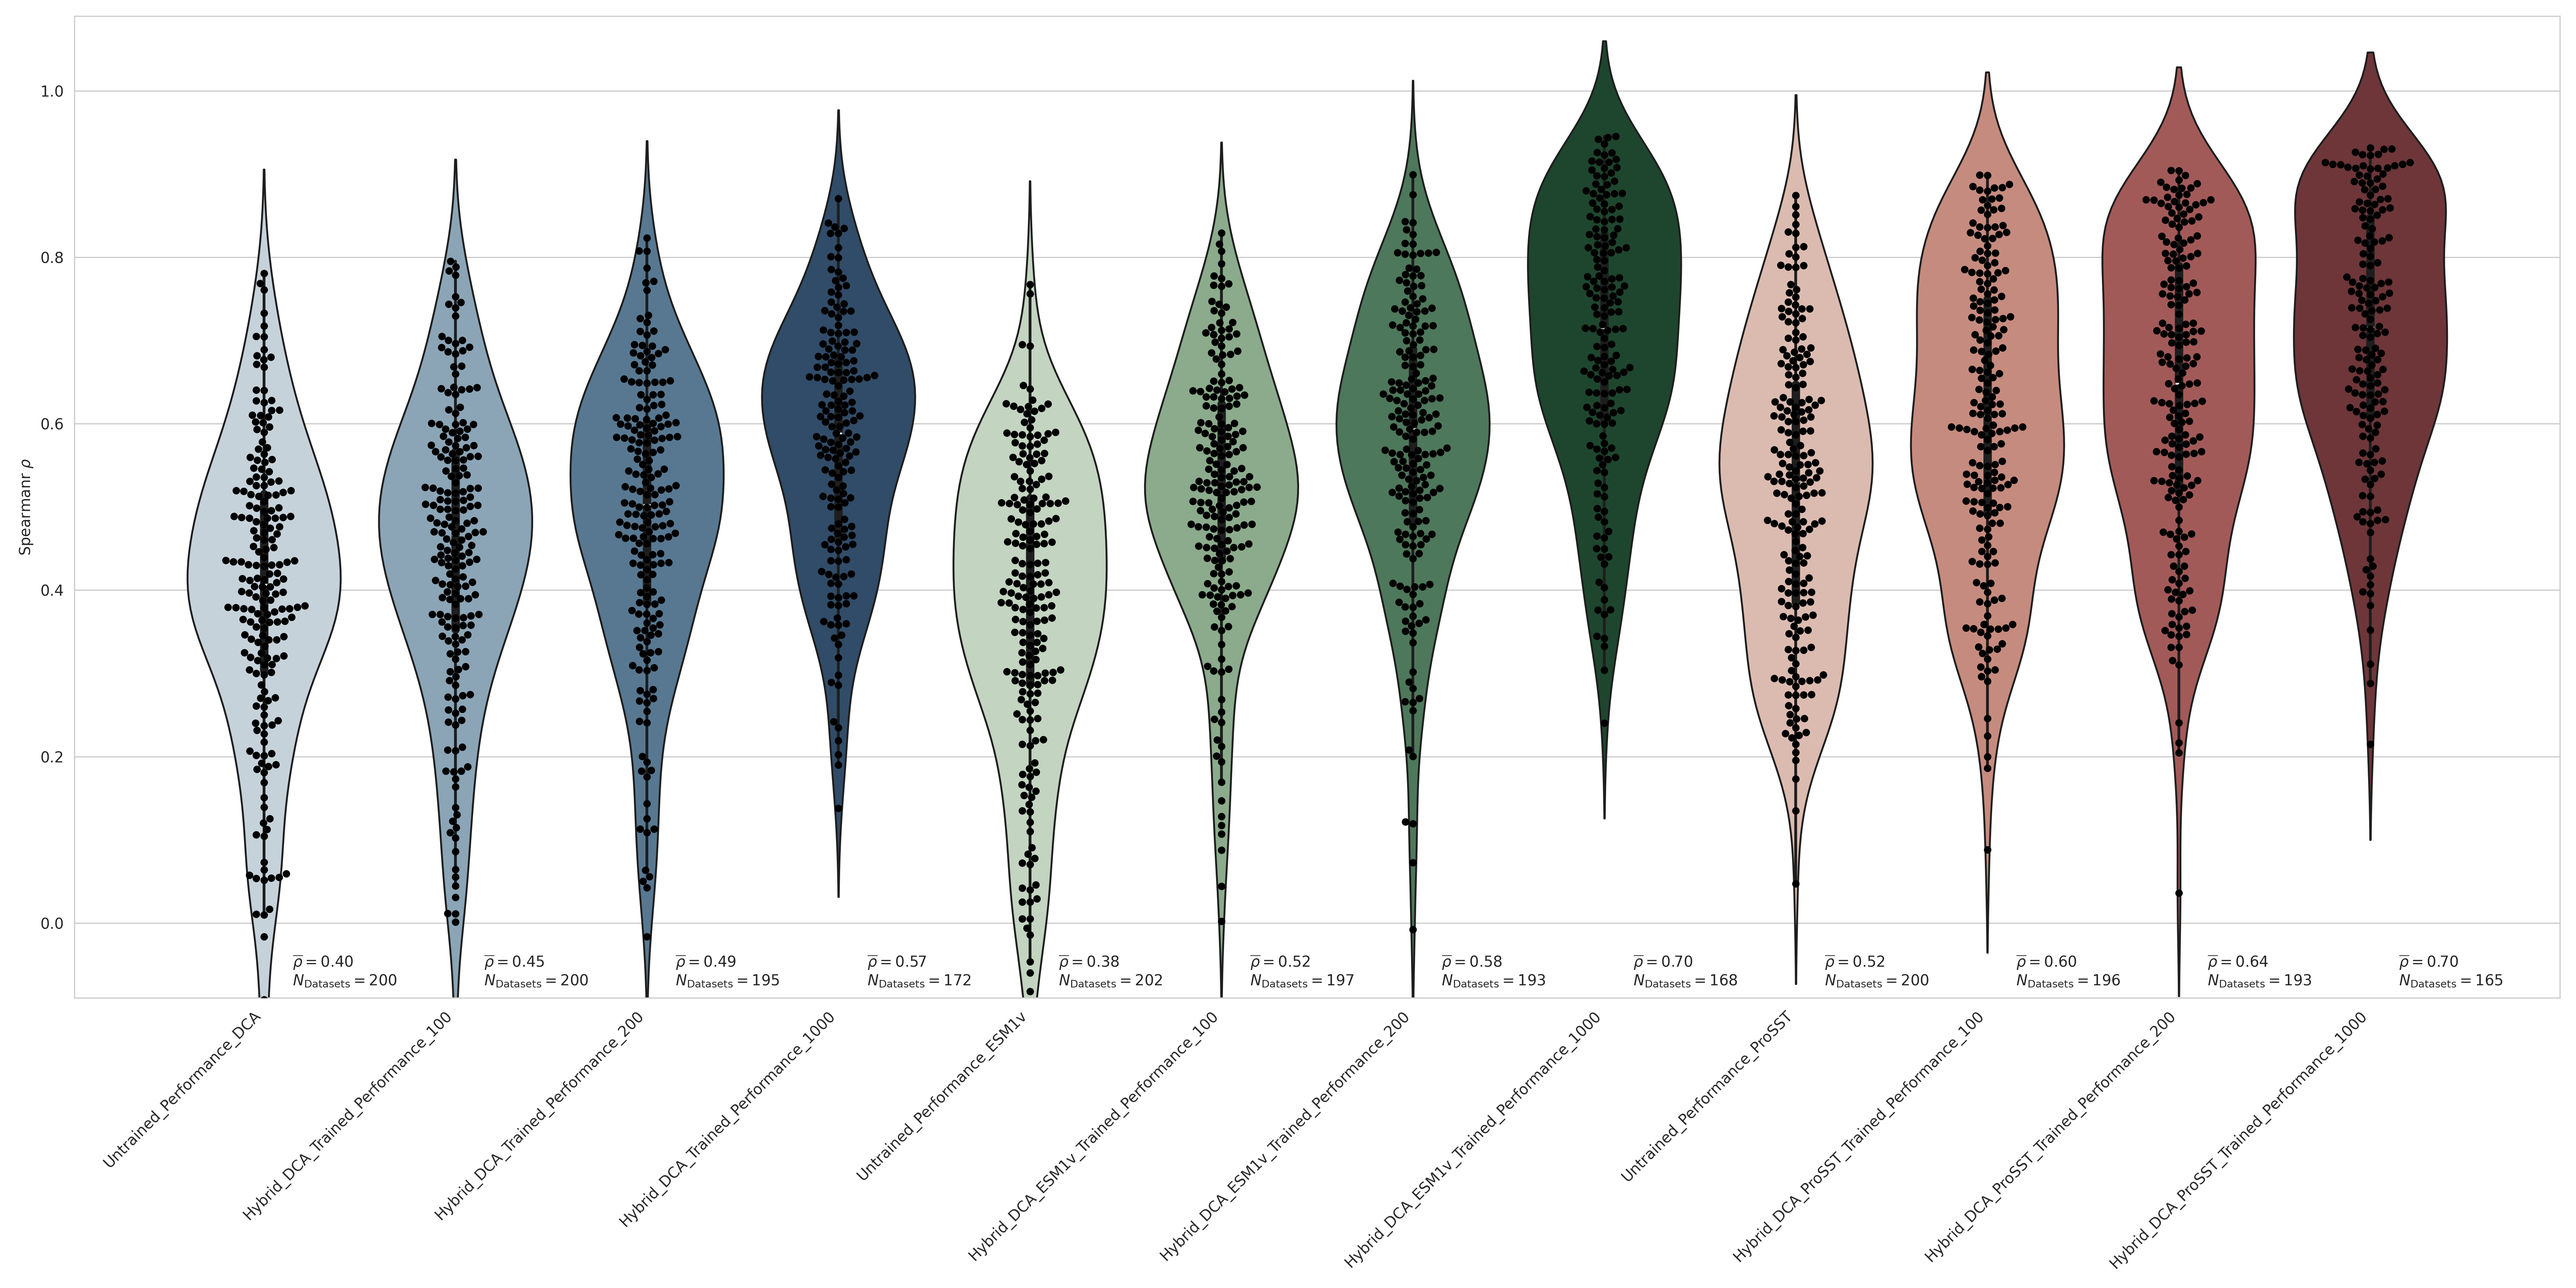
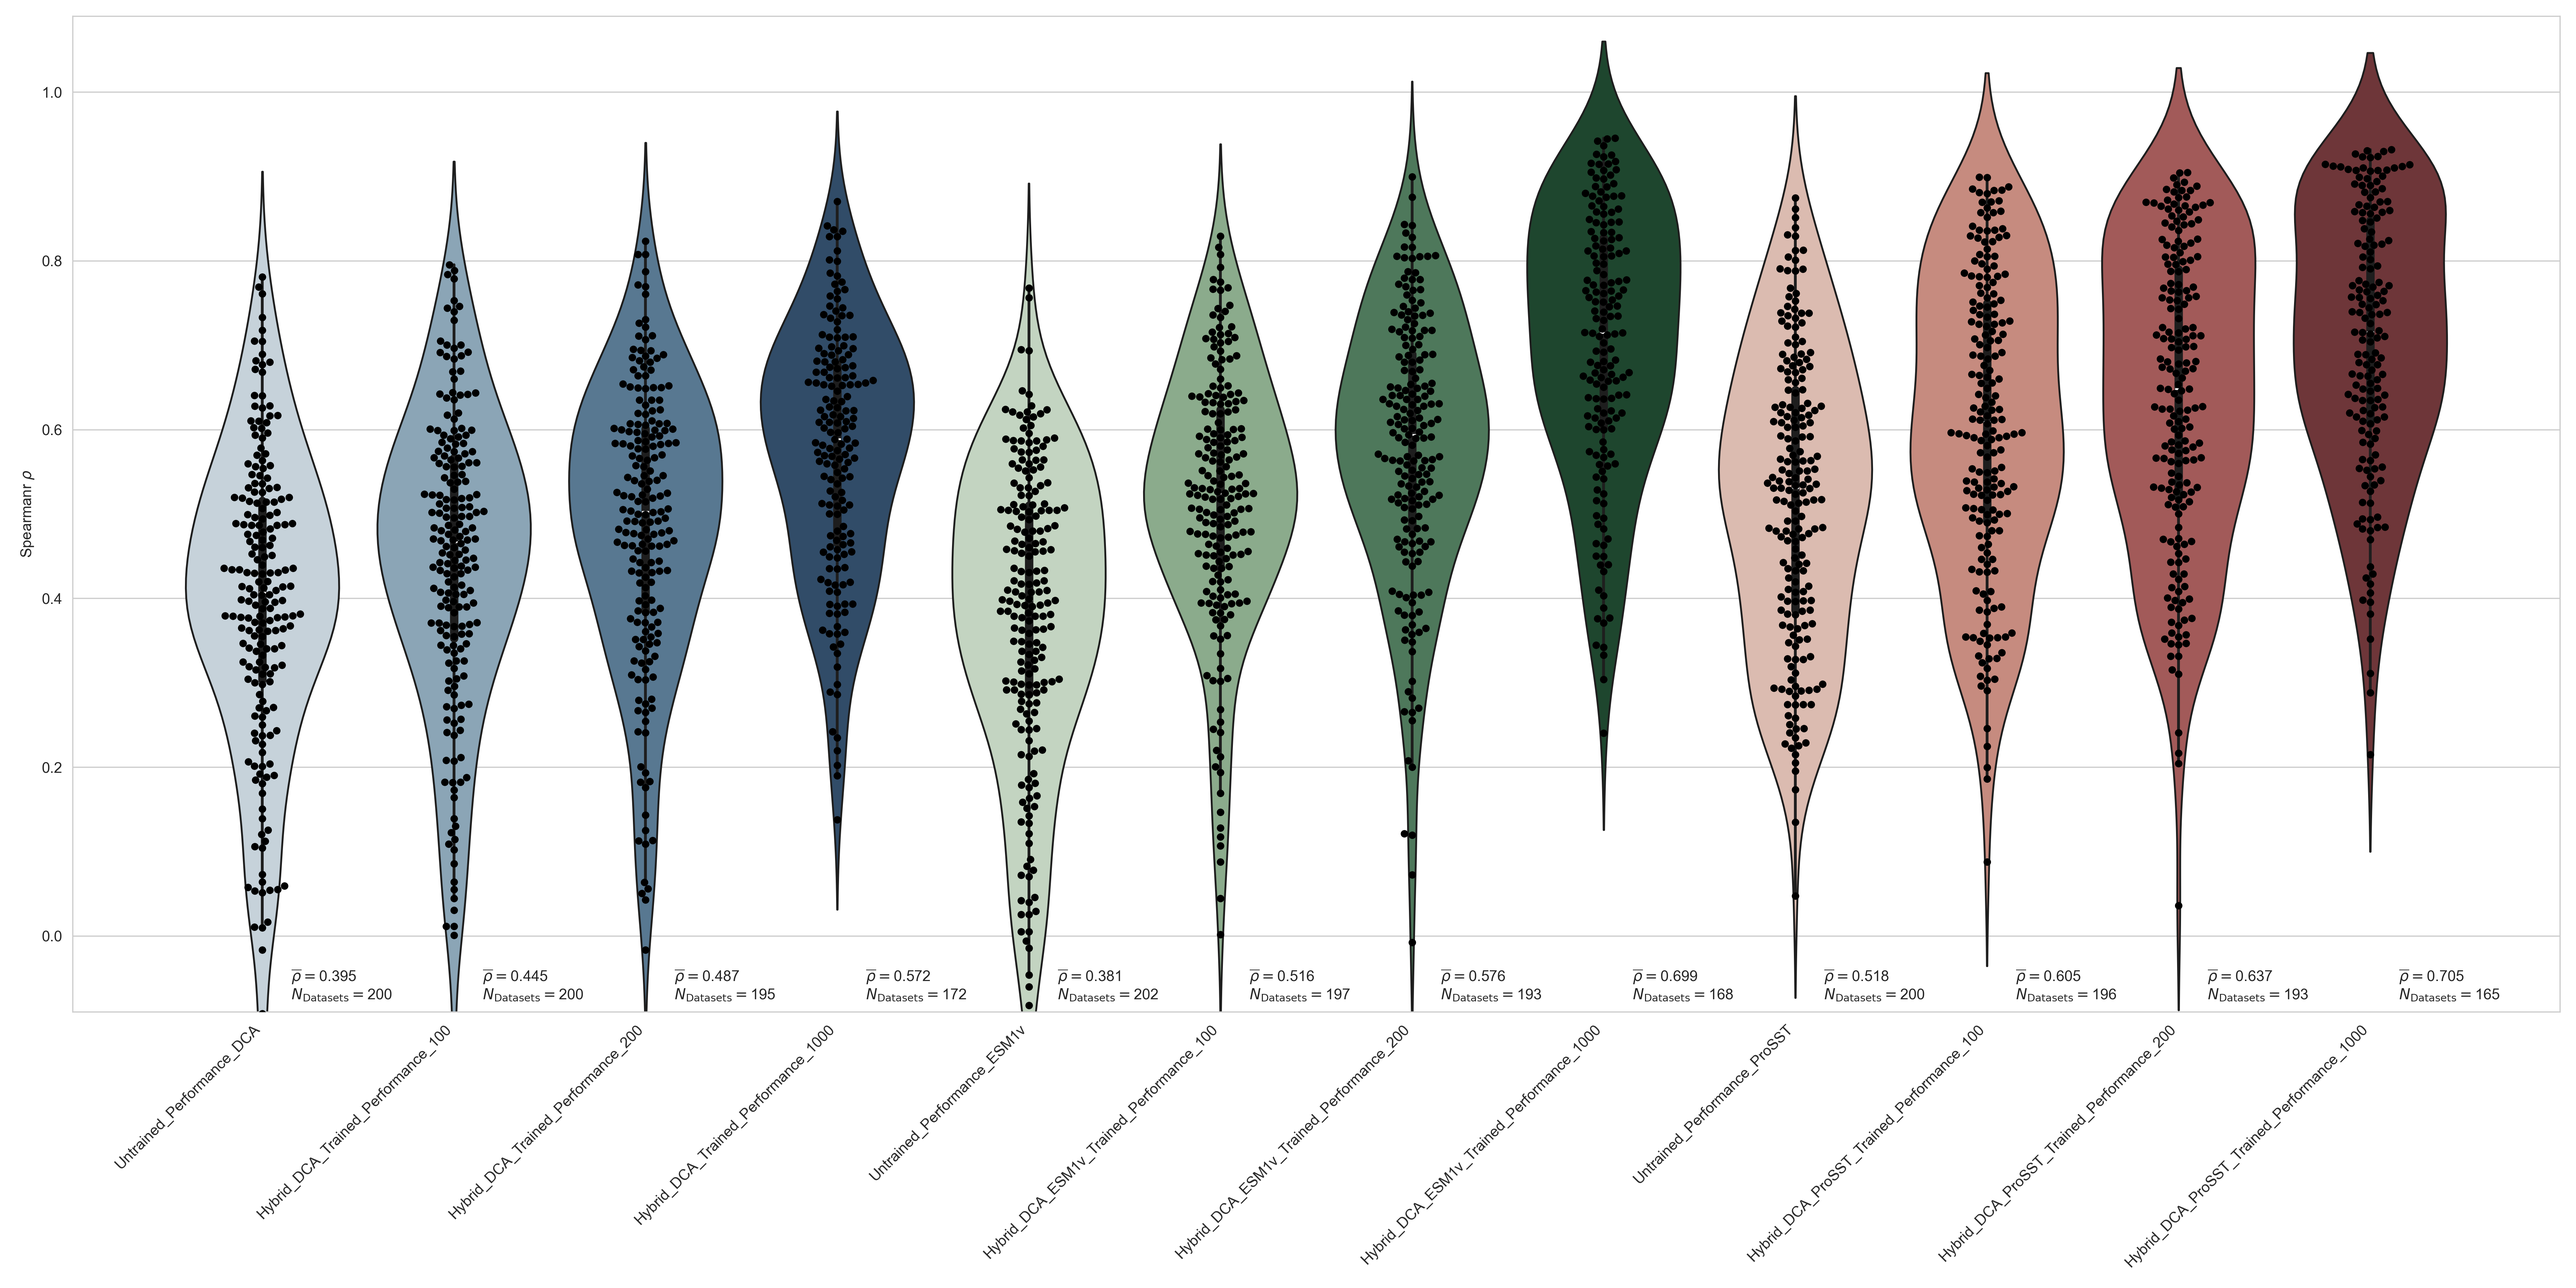
.3f precision for hybrid violine performance plot

diff --git a/scripts/ProteinGym_runs/run_performance_tests_proteingym_hybrid_dca_llm.py b/scripts/ProteinGym_runs/run_performance_tests_proteingym_hybrid_dca_llm.py
@@ -37,6 +37,8 @@ from pypef.hybrid.hybrid_model import (
 )
 
 
+JUST_PLOT_RESULTS = True
+
 
 def compute_performances(mut_data, mut_sep=':', start_i: int = 0, already_tested_is: list = []):
     # Get cpu, gpu or mps device for training.
@@ -475,7 +477,7 @@ def plot_csv_data(csv, plot_name):
     for n in range(0, len(dset_perfs)):
         plt.text(
             n + 0.15, -0.075, 
-            r'$\overline{\rho}=$' + f'{np.nanmean(dset_perfs[n]):.2f}\n' 
+            r'$\overline{\rho}=$' + f'{np.nanmean(dset_perfs[n]):.3f}\n' 
             + r'$N_\mathrm{Datasets}=$' + f'{np.count_nonzero(~np.isnan(np.array(dset_perfs)[n]))}'
         )
     plot.set_xticks(range(len(plot.get_xticklabels())))
@@ -536,11 +538,12 @@ if __name__ == '__main__':
             start_i = 0
             already_tested_is = []
 
-    compute_performances(
-        mut_data=combined_mut_data, 
-        start_i=start_i, 
-        already_tested_is=already_tested_is
-    )
+    if not JUST_PLOT_RESULTS:
+        compute_performances(
+            mut_data=combined_mut_data, 
+            start_i=start_i, 
+            already_tested_is=already_tested_is
+        )
 
     with open(out_results_csv, 'r') as fh:
         lines = fh.readlines()
